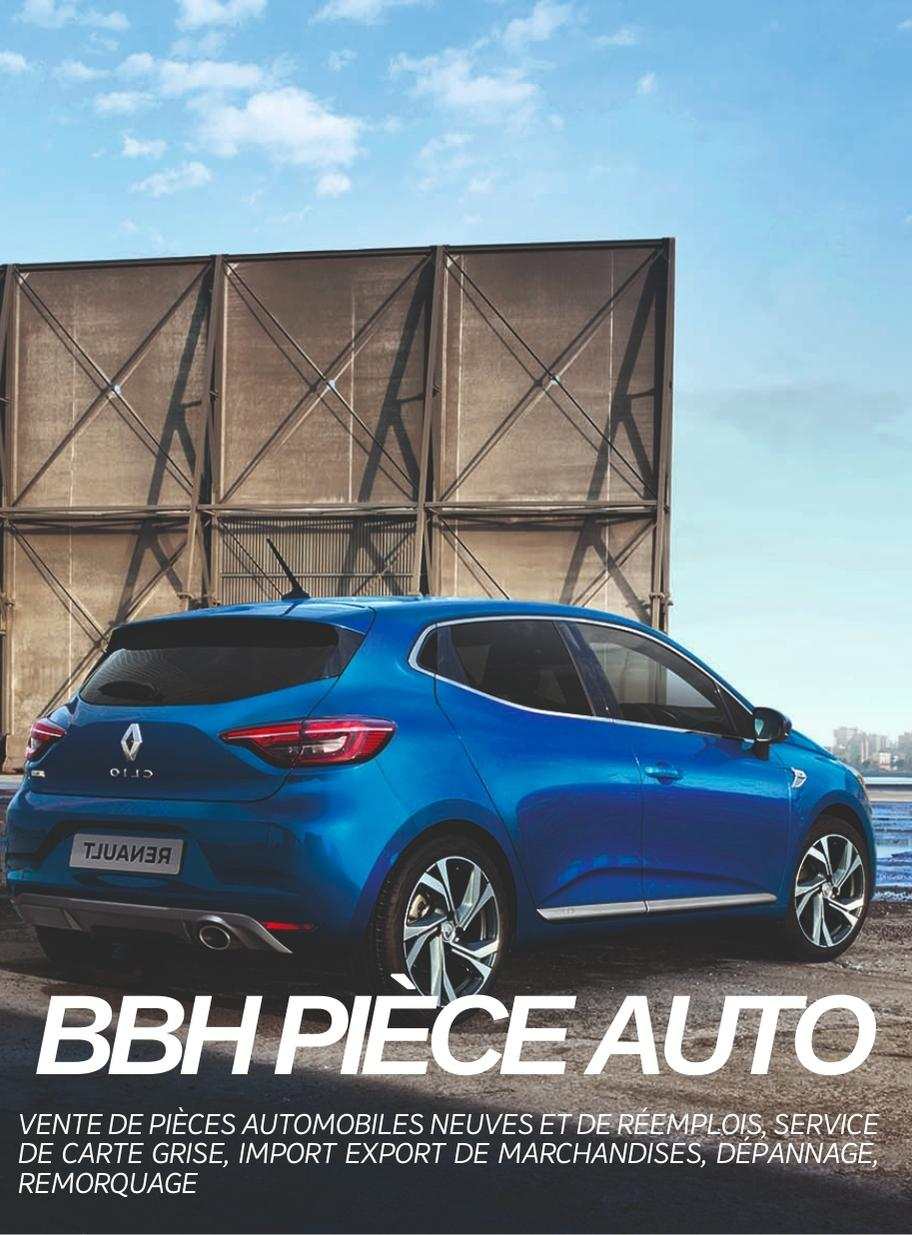
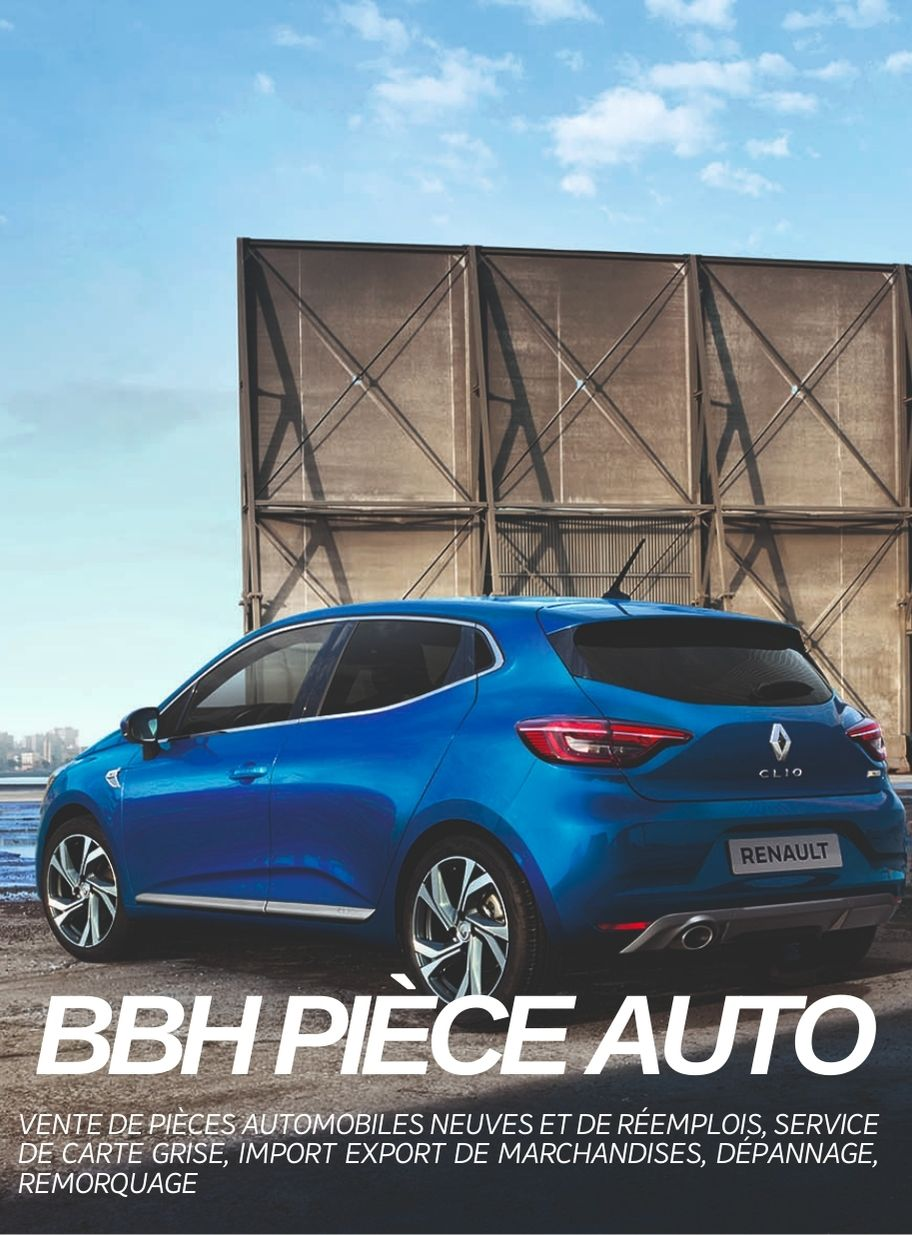
push recadre banniere mobikle

diff --git a/index.html b/index.html
@@ -100,7 +100,7 @@
         <div class="grid">
             <figure>
                 <img src="./asset/lieubbh.jpg" alt="bbh magasin devanture">
-                <figcasption>Quelle que soit la marque de votre automobile, il y a une grande
+                <figcaption>Quelle que soit la marque de votre automobile, il y a une grande
                     variété de produits , pour
                     couvrir vos besoins et tous les
                     problèmes que votre voiture pourra rencontrer.</figcaption>

diff --git a/css/service.css b/css/service.css
@@ -161,7 +161,7 @@
 
 #desk{
     display: block;
-    margin: 0 auto;
+    margin: 5rem auto -1rem;
     width: 100%;
 }
 
